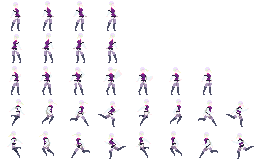
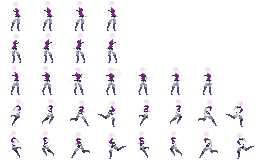
Minor changes

diff --git a/tests/test_main.py b/tests/test_main.py
@@ -14,8 +14,8 @@ def test_integration_animation ():
     avatar = mk.gfx.Sprite()
     bkgnd.load_image(fp_b, "blue", set_frame=True)
     avatar.load_sheet(lucy_fp)
-    avatar.set_frame("idle")
-    avatar.queue_animation("idle", loop=True)
+    avatar.set_frame("idle_E")
+    avatar.queue_animation("idle_E", loop=True)
     scn.register(bkgnd, end=False)
     scn.register(avatar)
     scn.clear_color = pg.Color(48, 48, 48)
@@ -30,32 +30,32 @@ def test_integration_animation ():
             if event.type == pg.QUIT:
                 running = False
 
-        pressed = pg.key.get_just_pressed()
-        if pressed[pg.K_e]:
-            avatar.clear_animation()
-            avatar.queue_animation("hair")
-            avatar.queue_animation("idle", loop=True)
-        elif pressed[pg.K_d]:
-            avatar.clear_animation()
-            avatar.queue_animation("run", loop=True)
-        elif pressed[pg.K_a]:
-            avatar.clear_animation()
-            avatar.queue_animation("run_left", loop=True)
-
         held = pg.key.get_pressed()
         if held[pg.K_d]:
             x += 3
         if held[pg.K_a]:
             x -= 3
-        avatar.pos = (x, y)
+        avatar.pos = pg.Vector2(x, y)
 
         released = pg.key.get_just_released()
         if released[pg.K_d]:
             avatar.clear_animation()
-            avatar.queue_animation("idle", loop=True)
+            avatar.queue_animation("idle_E", loop=True)
         if released[pg.K_a]:
             avatar.clear_animation()
-            avatar.queue_animation("idle_left", loop=True)
+            avatar.queue_animation("idle_W", loop=True)
+
+        pressed = pg.key.get_just_pressed()
+        if pressed[pg.K_e]:
+            avatar.clear_animation()
+            avatar.queue_animation("hair")
+            avatar.queue_animation("idle_E", loop=True)
+        elif pressed[pg.K_d]:
+            avatar.clear_animation()
+            avatar.queue_animation("run_E", loop=True)
+        elif pressed[pg.K_a]:
+            avatar.clear_animation()
+            avatar.queue_animation("run_W", loop=True)
 
         scn.draw()
         scn.upscale(disp)
@@ -65,8 +65,6 @@ def test_integration_animation ():
         frame += 1
 
     pg.quit()
-
-    pass
 
 def test_main ():
     __main__.main()

diff --git a/src/m_ake/gfx/sprite.py b/src/m_ake/gfx/sprite.py
@@ -11,14 +11,14 @@ class Sprite (object):
         frames: dict of {str: list of pygame.Surface}
         key: str to access frames
         frame: int to access animation frame
-        pos: (int, int): screen-space coordinates
+        pos: pygame.Vector2: screen-space coordinates
     """
     def __init__ (self):
         self.frames = {}
         self.queue = deque()
         self.loop = None
         self.default = (None, 0)
-        self.pos = (0, 0)
+        self.pos = pg.Vector2(0, 0)
 
     def load_image (self, fp, kw=None, set_frame=False):
         """
@@ -102,15 +102,15 @@ class Sprite (object):
         self.queue.clear()
         self.loop = None
 
-    def get_blit_args (self):
+    def get_blit_args (self, camera_pos=pg.Vector2(0, 0)):
         """
         Return args for a surface to call blit()
         """
         if self.queue:
-            return self.queue.popleft(), self.pos
+            return self.queue.popleft(), (self.pos - camera_pos)
         elif self.loop:
             self.queue_animation(self.loop, loop=True)
-            return self.queue.popleft(), self.pos
+            return self.queue.popleft(), (self.pos - camera_pos)
 
         kw, frame = self.default
         return self.frames[kw][frame], self.pos

diff --git a/src/m_ake/gfx/screen.py b/src/m_ake/gfx/screen.py
@@ -8,6 +8,7 @@ class Screen (pg.Surface):
     """
     def __init__ (self, *args, **kwargs):
         super().__init__(*args, **kwargs)
+        self.pos = pg.Vector2(0, 0)
         self.factor = mk.config.pixel_factor
         self.__col = pg.Color(0, 0, 0, 255)
         self.sprites = deque()
@@ -45,7 +46,7 @@ class Screen (pg.Surface):
         """
         self.fill(self.__col)
         for spt in self.sprites:
-            args = spt.get_blit_args()
+            args = spt.get_blit_args(self.pos)
             self.blit(*args)
 
     def upscale (self, surf):

diff --git a/devlogs/bibliography.md b/devlogs/bibliography.md
@@ -1,0 +1,3 @@
+# M ake: Bibliography
+
+- [Every Pixel Art Game Has This Problem](https://www.youtube.com/watch?v=QK9wym71F7s): camera movement logic
